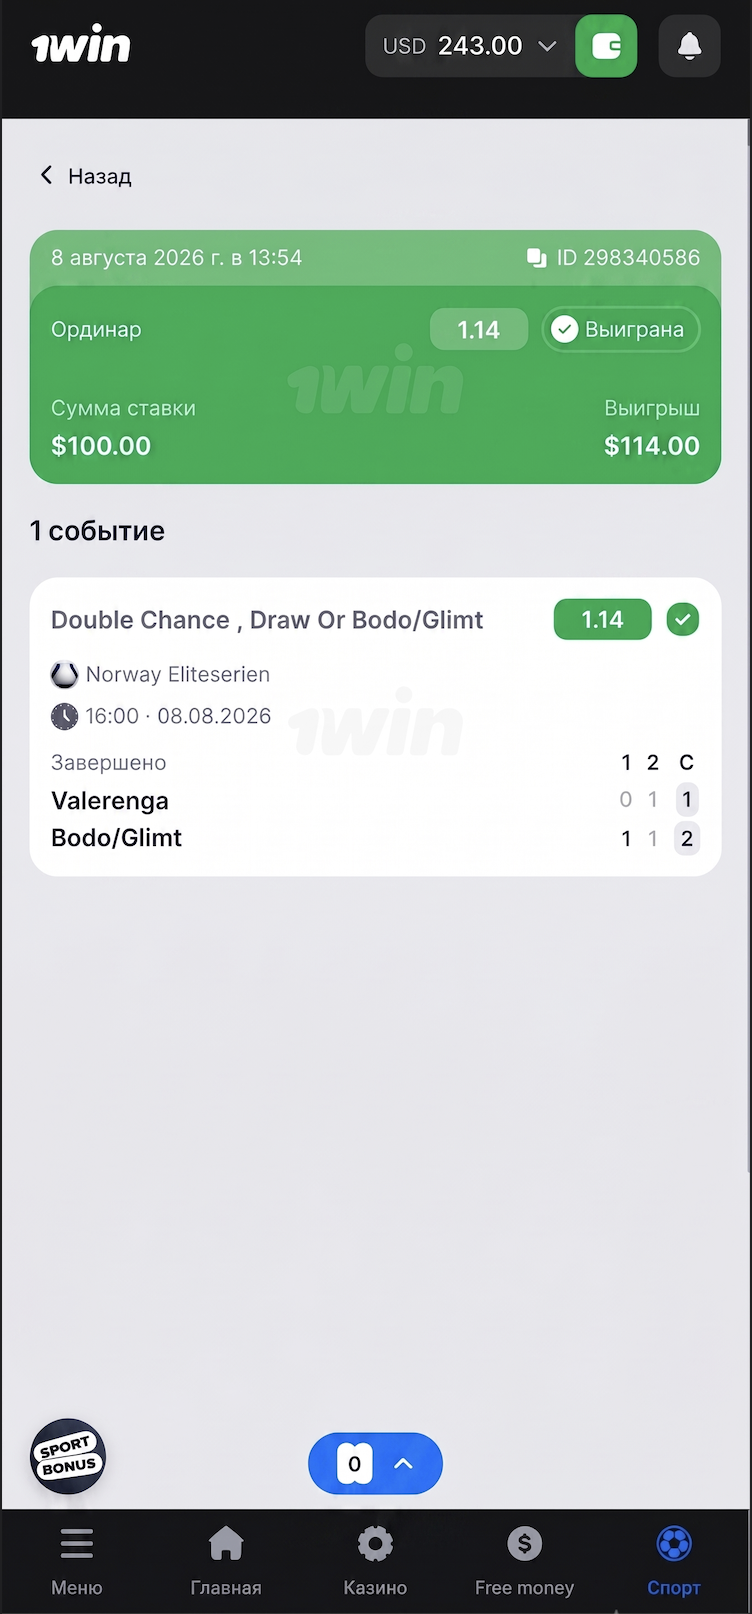
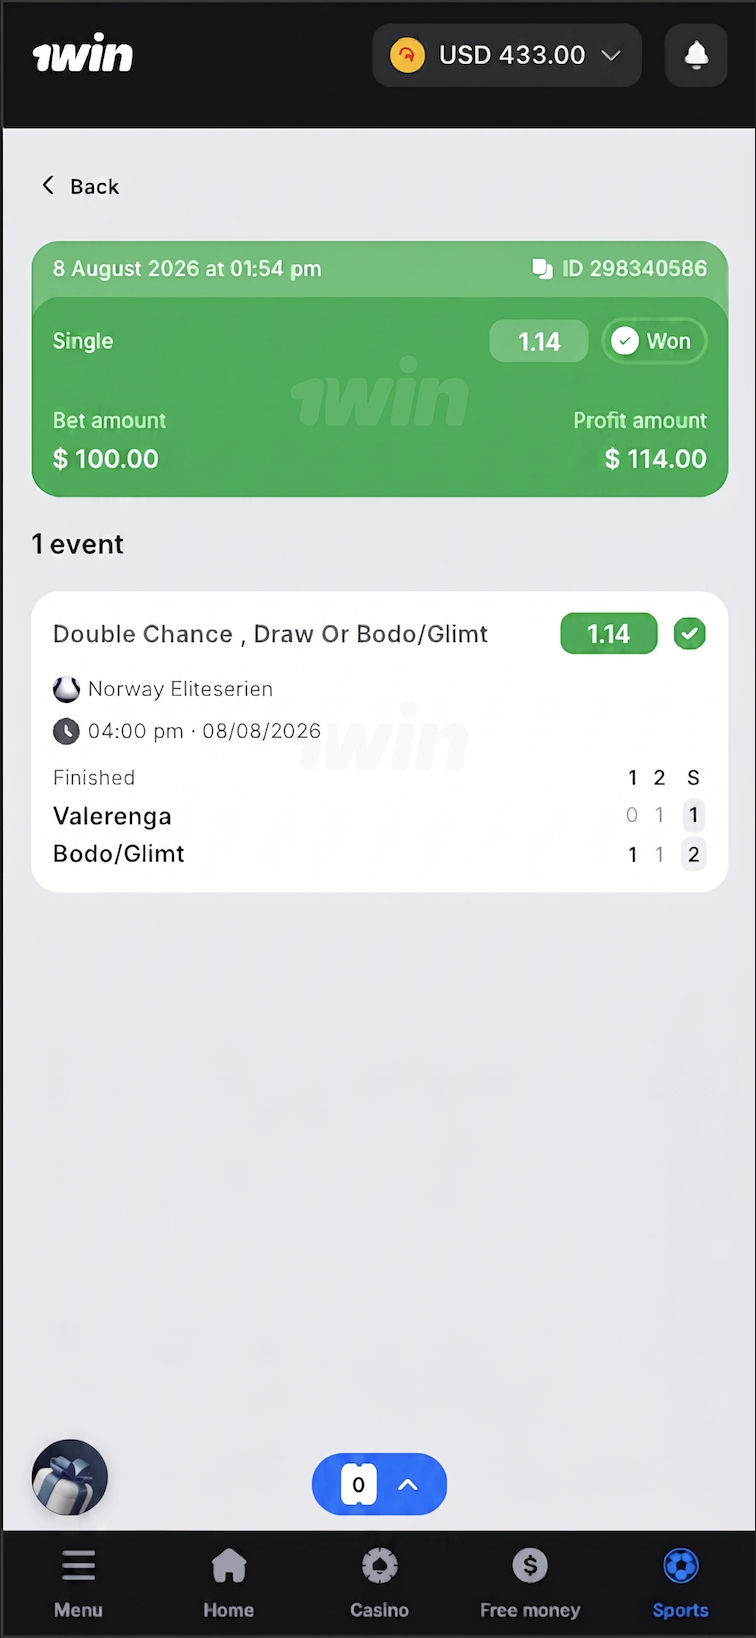
upadte

diff --git a/fortunobet/FortunoBetBot.py b/fortunobet/FortunoBetBot.py
@@ -65,19 +65,34 @@ posts =[
 # {"date": "2026-06-21", "time": "23:55", "content": "🎰 <b>500% Bonus — active tonight only! ❌</b>\n\n1WIN Casino. Fortune Tiger. Gates of Olympus. 💰\nGH₵50 → play with GH₵300 + 500 free spins. Chale.\n\nPromo code works now — not guaranteed tomorrow. ⚠\nThree payouts this week. GH₵450 + GH₵750 + GH₵1,200. No dulling. 💸\n\nPlace your bet before bonus expires. JOIN NOW. 🔥\n\nDeposit GH₵50 → play with GH₵300\n🔑 Code: <code>fortunobet</code>\n👉 <b>PLACE YOUR BET:</b> https://r1wexmo.life/betting?open=register&p=t02b", "images": ["bonus4.jpeg"]},
 
 
-    
-    {"date":"2026-08-14","time":"12:00","content":"⚽ <b>FRIDAY NIGHT BANKER: FORM & DATA PICK! 🎯</b>\n\nWeekend matches start tonight! Safe odds [1.25–1.40] locked. Deposit ₦500 → Play with ₦3,000 (or GH¢50 → GH¢300)! Price of 1 local street snack. ⚡\n\n1⃣ Code: <code>fortunobet</code>\n2⃣ Deposit min ₦200 / GH¢5 via PalmPay, OPay or MoMo\n3⃣ Get 500% bonus credited in under 30s! ⚡\n\n🔑 Code: <code>fortunobet</code>\n👉 <b>BET FRIDAY MATCHES NOW:</b> https://1win.ng/betting?open=register&p=jgk6","images":["bonus1.jpeg"]},
-    {"date":"2026-08-14","time":"16:30","content":"🤔 <b>QUICK DEBATE MY PEOPLE / CHALE! ⚽</b>\n\nBig Friday night kickoff! Who get the clean sheet tonight? 👇\nDrop your score prediction below. Let us see who dey analyze well! No dulling! 💬","images":[]},
-    {"date":"2026-08-14","time":"22:30","content":"💸 <b>₦38,400 PALMPAY CASHOUT — INSTANT IN 45s! ✅</b>\n\nEmeka from Ikeja, Lagos backed the form early and withdrew straight to PalmPay in 45 seconds! Zero delays. 💚\nTxID: <code>PPW-882301</code>. Emeka: <i>\"Mr Bryan thanks for winning bets sharp sharp!\"</i>\n\nTest small first with ₦200 / GH¢5. See how fast withdrawal drops! ⚡\n\n1⃣ Code: <code>fortunobet</code>\n2⃣ Deposit min ₦200 / GH¢5 via PalmPay or MoMo\n3⃣ Get 500% bonus credited in 30s! ⚡\n\n🔑 Code: <code>fortunobet</code>\n👉 <b>TEST IT YOURSELF NOW:</b> https://1win.ng/betting?open=register&p=jgk6","images":["with2.png"]},
 
-    {"date":"2026-08-15","time":"12:00","content":"🏆 <b>SATURDAY BANKER: 90%+ WIN PROBABILITY PICKS! 🎯</b>\n\nData don set! High-probability picks locked. Deposit GH¢50 → Play with GH¢300 (or ₦500 → ₦3,000)! Price of 1 local plantain chips/snack. + 10% monthly loss protection! 🛡\n\n1⃣ Code: <code>fortunobet</code>\n2⃣ Deposit min GH¢5 / ₦200 via MTN MoMo, Telecel Cash or OPay\n3⃣ Get 500% bonus credited in under 30s! ⚡\n\n🔑 Code: <code>fortunobet</code>\n👉 <b>LOCK IN SATURDAY BANKER:</b> https://1win.ng/betting?open=register&p=jgk6","images":["bonus1.jpeg"]},
-    {"date":"2026-08-15","time":"16:30","content":"🔥 <b>SATURDAY EVENING POLL CHALE! 💬</b>\n\nPremier League vs La Liga matches tonight — where the goals dey enter pass? 👇\nComment your banker pick for the evening! Let us see who get vim! 🎯","images":[]},
-    {"date":"2026-08-15","time":"21:30","content":"💸 <b>GH₵750 MTN MOMO CASHOUT — INSTANT! ✅</b>\n\nKwame from Kumasi locked the tennis & football picks early and withdrew straight to MTN MoMo in 30 seconds! Vim dey! 💚\nTxID: <code>MTN-773204</code>. Kwame: <i>\"Chale E easy be! Withdrawal drop sharp sharp!\"</i>\n\n1⃣ Code: <code>fortunobet</code>\n2⃣ Deposit min GH¢5 / ₦200 via MoMo or PalmPay\n3⃣ Get 500% bonus credited in 30s! ⚡\n\n🔑 Code: <code>fortunobet</code>\n👉 <b>COLLECT YOUR CASHOUT NOW:</b> https://1win.ng/betting?open=register&p=jgk6","images":["win2.png"]},
+  {"date":"2026-08-17","time":"17:30","content":"🎯 Placing this live now: <b>Crystal Palace vs Wolves</b>\nOver 1.5 Goals @ 1.34 Odds (89% data locked). ⚡\nKickoff in 25 mins. Bookmaker dropping odds fast. 👀\n\n🔑 Code: <code>fortunobet</code>\n👉 <b>ENTER LIVE MATCH:</b> https://r1wttde.life/betting?open=register&p=t02b","images":[]},
+  {"date":"2026-08-17","time":"22:30","content":"💸 <b>₦62,000 PALMPAY CASHOUT — CONFIRMED! ✅</b>\n\nReal alert. ID: <code>PPW-7732324</code>. Settled at 06:34 AM. 📱\nBryan cashed out ₦62,000 straight to PalmPay in under 60s.\nTest with ₦200 / GH₵5 (cost of 1 snack). Test speed yourself. 🙏\n\n🔑 Code: <code>fortunobet</code>\n👉 <b>TEST CASHOUT SPEED:</b> https://r1wttde.life/betting?open=register&p=t02b","images":["with1.jpeg"]},
 
-    {"date":"2026-08-16","time":"12:00","content":"🏆 <b>WEEKLY CASHOUT RECAP: OVER ₦60,800 / GH₵1,200 PAID OUT! 💚</b>\n\n100% verified proof! All withdrawals processed in under 60 seconds straight to PalmPay & MTN MoMo! ⚡\n✅ ₦22,400.00 — <b>PAID</b> (ID: PPW-7732322)\n✅ GH¢750.00 — <b>PAID</b> (ID: MTN-773204)\n\nTest small with ₦200 / GH¢5 (price of 1 street snack). Start your new week with cash! 🎯\n\n1⃣ Code: <code>fortunobet</code>\n2⃣ Deposit min ₦200 / GH¢5 via OPay, PalmPay or MoMo\n3⃣ Get 500% bonus credited in 30s! ⚡\n\n🔑 Code: <code>fortunobet</code>\n👉 <b>REGISTER & CASH OUT NOW:</b> https://1win.ng/betting?open=register&p=jgk6","images":["with2.png","with1.png"]},
-    # {"date":"2026-08-16","time":"16:30","content":"⚽ <b>SUNDAY NIGHT FOOTBALL QUESTION! 👇</b>\n\nWho is taking the 3 points in tonight's main fixture? Team A or Team B?\nDrop your score prediction below! No dulling! 💬","images":[]},
-    {"date":"2026-08-16","time":"22:30","content":"💸 <b>SUNDAY NIGHT CASHOUT PROOF — PALMPAY & MOMO! ✅</b>\n\nKofi from Accra & Tunde from Ibadan both collected their Sunday winnings! Payout processed in 45s flat! 💚\nTxID: <code>PPW-7732324</code>. Quote: <i>\"Mr Bryan thanks for winning bets!\"</i> + 10% monthly loss cashback protection! 🛡\n\n1⃣ Code: <code>fortunobet</code>\n2⃣ Deposit min ₦200 / GH¢5 via PalmPay, OPay or MoMo\n3⃣ Get 500% bonus credited in 30s! ⚡\n\n🔑 Code: <code>fortunobet</code>\n👉 <b>REGISTER & CASH OUT NOW:</b> https://r1wttde.life/betting?open=register&p=t02b","images":["with1.png"]}
-   ]   
+  {"date":"2026-08-18","time":"12:00","content":"⚽ <b>TUESDAY CHAMPIONS LEAGUE BANKER! 🎯</b>\n\nOver 1.5 Goals @ 1.42 Odds (88% form data locked). 📊\nDeposit ₦1,000 → Play with ₦6,000 (or GH₵25 → GH₵150)! ⚡\nInstant deposit via PalmPay, OPay & MTN MoMo. 📲\n\n🔑 Code: <code>fortunobet</code>\n👉 <b>CLAIM 500% BOOST:</b> https://r1wttde.life/betting?open=register&p=t02b","images":["fortunobet.jpeg"]},
+#   {"date":"2026-08-18","time":"17:30","content":"","images":[]},
+#   {"date":"2026-08-18","time":"22:30","content":"🎯 <b>REPLAY TO LIVE BET: 1.14 ODDS TICKET WON! 🟢</b>\n\nValerenga vs Bodo/Glimt (1:2) — Double Chance WON. ✅\n$100.00 Stake → <b>$114.00 Payout</b> (ID: <code>298340586</code>). 💰\nLive video bet delivered again. Lock tomorrow's picks early!\n\n🔑 Code: <code>fortunobet</code>\n👉 <b>COLLECT WINNINGS NOW:</b> https://r1wttde.life/betting?open=register&p=t02b","images":["win1.png"]},
+
+  {"date":"2026-08-19","time":"12:00","content":"💰 <b>GET UP TO 600% ON YOUR FIRST DEPOSIT! 🚀</b>\n\nDeposit ₦1,000 → Play with ₦7,000 (or GH₵25 → GH₵175)! ⚡\nPlus 500 Free Spins on Top Games. No extra fees. 🎁\nInstant fund via PalmPay, OPay & MTN MoMo in 30s. 📲\n\n🔑 Code: <code>fortunobet</code>\n👉 <b>CLAIM 600% BONUS:</b> https://r1wttde.life/betting?open=register&p=t02b","images":["fortunobet1.jpeg"]},
+  {"date":"2026-08-19","time":"17:30","content":"🎯 Placing this live now: <b>Lille vs Slavia Prague</b>\nHome Win or Draw @ 1.32 Odds (89% stats locked). ⚡\nKickoff in 30 mins. Bookmaker dropping line! 👀\n\n🔑 Code: <code>fortunobet</code>\n👉 <b>ENTER LIVE MATCH:</b> https://r1wttde.life/betting?open=register&p=t02b","images":[]},
+  {"date":"2026-08-19","time":"22:30","content":"💸 <b>₦127,500 PALMPAY CASHOUT — INSTANT! ✅</b>\n\nReal alert. ID: <code>PPW-7732325</code>. Settled at 10:24 AM. 📱\nBryan withdrew ₦127,500 (~$85 USD) straight to PalmPay in 45s.\nStart with ₦200 / GH₵5. Test withdrawal speed yourself. 🙏\n\n🔑 Code: <code>fortunobet</code>\n👉 <b>TEST CASHOUT SPEED:</b> https://r1wttde.life/betting?open=register&p=t02b","images":["with2.jpeg"]},
+
+  {"date":"2026-08-20","time":"12:00","content":"🏆 <b>EUROPA LEAGUE 500% BOOST LOCK! 🎯</b>\n\nOver 1.5 Goals @ 1.40 Odds (91% probability confirmed). 📊\nDeposit ₦1,000 → Play with ₦6,000 (or GH₵25 → GH₵150). 💰\nFast deposit via PalmPay, OPay & MTN MoMo. 📲\n\n🔑 Code: <code>fortunobet</code>\n👉 <b>LOCK IN YOUR ODDS:</b> https://r1wttde.life/betting?open=register&p=t02b","images":["fortunobet3.jpeg"]},
+#   {"date":"2026-08-20","time":"17:30","content":"","images":[]},
+#   {"date":"2026-08-20","time":"22:30","content":"🎯 <b>REPLAY TO LIVE BET: 1.10 HANDICAP WON! 🟢</b>\n\nSabah Baku FK vs Aarhus AGF (4:0) — Handicap 1 WON. ✅\n$100.00 Stake → <b>$110.00 Payout</b> (ID: <code>299632435</code>). 💰\nLive video bet delivered straight green! Reset for tomorrow.\n\n🔑 Code: <code>fortunobet</code>\n👉 <b>CLAIM WINNINGS NOW:</b> https://r1wttde.life/betting?open=register&p=t02b","images":["win2.png"]},
+
+  {"date":"2026-08-21","time":"12:00","content":"⚽ <b>FRIDAY NIGHT BANKER — WEEKEND OPENER! 🎯</b>\n\nOver 1.5 Goals @ 1.45 Odds (90% form data locked). 📊\nDeposit ₦1,000 → Play with ₦6,000 (or GH₵25 → GH₵150)! ⚡\nInstant deposit via PalmPay, OPay & MTN MoMo. 📲\n\n🔑 Code: <code>fortunobet</code>\n👉 <b>LOCK IN FRIDAY ODDS:</b> https://r1wttde.life/betting?open=register&p=t02b","images":["fortunobet4.jpeg"]},
+  {"date":"2026-08-21","time":"17:30","content":"🎯 Placing this live now: <b>PSG vs Montpellier</b>\nOver 2.5 Total Goals @ 1.40 Odds (High attack stats). ⚡\nKickoff in 20 mins. Bookmaker dropping lines sharp! 👀\n\n🔑 Code: <code>fortunobet</code>\n👉 <b>ENTER LIVE MATCH:</b> https://r1wttde.life/betting?open=register&p=t02b","images":[]},
+  {"date":"2026-08-21","time":"22:30","content":"💸 <b>SUNDAY NIGHT CASHOUT: ₦88,550 PALMPAY! ✅</b>\n\nReal alert. ID: <code>PPW-7732326</code>. Settled at 09:24 AM. 📱\nBryan withdrew ₦88,550 (~$55 USD) directly in under 45s. 💚\nStart small with ₦200 / GH₵5. Test cashout speed yourself. 🙏\n\n🔑 Code: <code>fortunobet</code>\n👉 <b>TEST CASHOUT SPEED:</b> https://r1wttde.life/betting?open=register&p=t02b","images":["with3.jpeg"]},
+
+  {"date":"2026-08-22","time":"12:00","content":"⚽ <b>SATURDAY PREMIER LEAGUE 500% BANKER! 🎯</b>\n\nOver 1.5 Goals @ 1.44 Odds (89% stats data locked). 📊\nDeposit ₦3,000 → Play with ₦18,000 (or GH₵50 → GH₵300)! 💰\nInstant funding via PalmPay, OPay & MTN MoMo in 30s. 📲\n\n🔑 Code: <code>fortunobet</code>\n👉 <b>CLAIM 500% BOOST:</b> https://r1wttde.life/betting?open=register&p=t02b","images":["fortunobet.jpeg"]},
+  {"date":"2026-08-22","time":"17:30","content":"🎯 Placing this live now: <b>Arsenal vs Aston Villa</b>\nOver 0.5 1st Half Goals @ 1.36 Odds (High pressure data). ⚡\nKickoff in 25 mins. Odds dropping fast. 👀\n\n🔑 Code: <code>fortunobet</code>\n👉 <b>ENTER LIVE MATCH:</b> https://r1wttde.life/betting?open=register&p=t02b","images":[]},
+#   {"date":"2026-08-22","time":"22:30","content":"🎯 <b>REPLAY TO LIVE BET: BARCELONA WIN WON! 🟢</b>\n\nFC Basel vs Barcelona FC (1:5) — Draw or Barca WON. ✅\n$100.00 Stake → <b>$107.00 Payout</b> (ID: <code>302272063</code>). 💰\nLive video bet delivered straight profit. Lock Sunday picks!\n\n🔑 Code: <code>fortunobet</code>\n👉 <b>COLLECT WINNINGS NOW:</b> https://r1wttde.life/betting?open=register&p=t02b","images":["win3.png"]},
+
+  {"date":"2026-08-23","time":"12:00","content":"🏆 <b>SUNDAY MEGA 600% CRYPTO & FIAT BOOST! 🚀</b>\n\nDeposit ₦1,000 → Play with ₦7,000 (or GH₵25 → GH₵175)! ⚡\nHigh multipliers, zero withdrawal fees, 10% loss insurance. 🛡\nInstant funding via PalmPay, OPay & MTN MoMo. 📲\n\n🔑 Code: <code>fortunobet</code>\n👉 <b>CLAIM 600% BONUS:</b> https://r1wttde.life/betting?open=register&p=t02b","images":["fortunobet2.jpeg"]},
+  {"date":"2026-08-23","time":"17:30","content":"🎯 Placing this live now: <b>Atletico Madrid vs Girona</b>\nHome Win or Draw @ 1.30 Odds (91% stats locked). ⚡\nKickoff in 30 mins. Bookmaker dropping lines! 👀\n\n🔑 Code: <code>fortunobet</code>\n👉 <b>ENTER LIVE MATCH:</b> https://r1wttde.life/betting?open=register&p=t02b","images":[]},
+  {"date":"2026-08-23","time":"22:30","content":"💸 <b>WEEKLY CASHOUT WRAP: ALL WITHDRAWALS SETTLED! ✅</b>\n\nOver ₦278,050 / GH₵4,200 paid out this week in under 60s! 💚\nVerified on PalmPay & MTN MoMo (IDs: <code>PPW-7732324/5/6</code>). 📱\nStart new week small with ₦200 / GH₵5. Test speed yourself. 🙏\n\n🔑 Code: <code>fortunobet</code>\n👉 <b>TEST CASHOUT SPEED:</b> https://r1wttde.life/betting?open=register&p=t02b","images":["with1.jpeg","with2.jpeg"]}
+]
 
 
 
